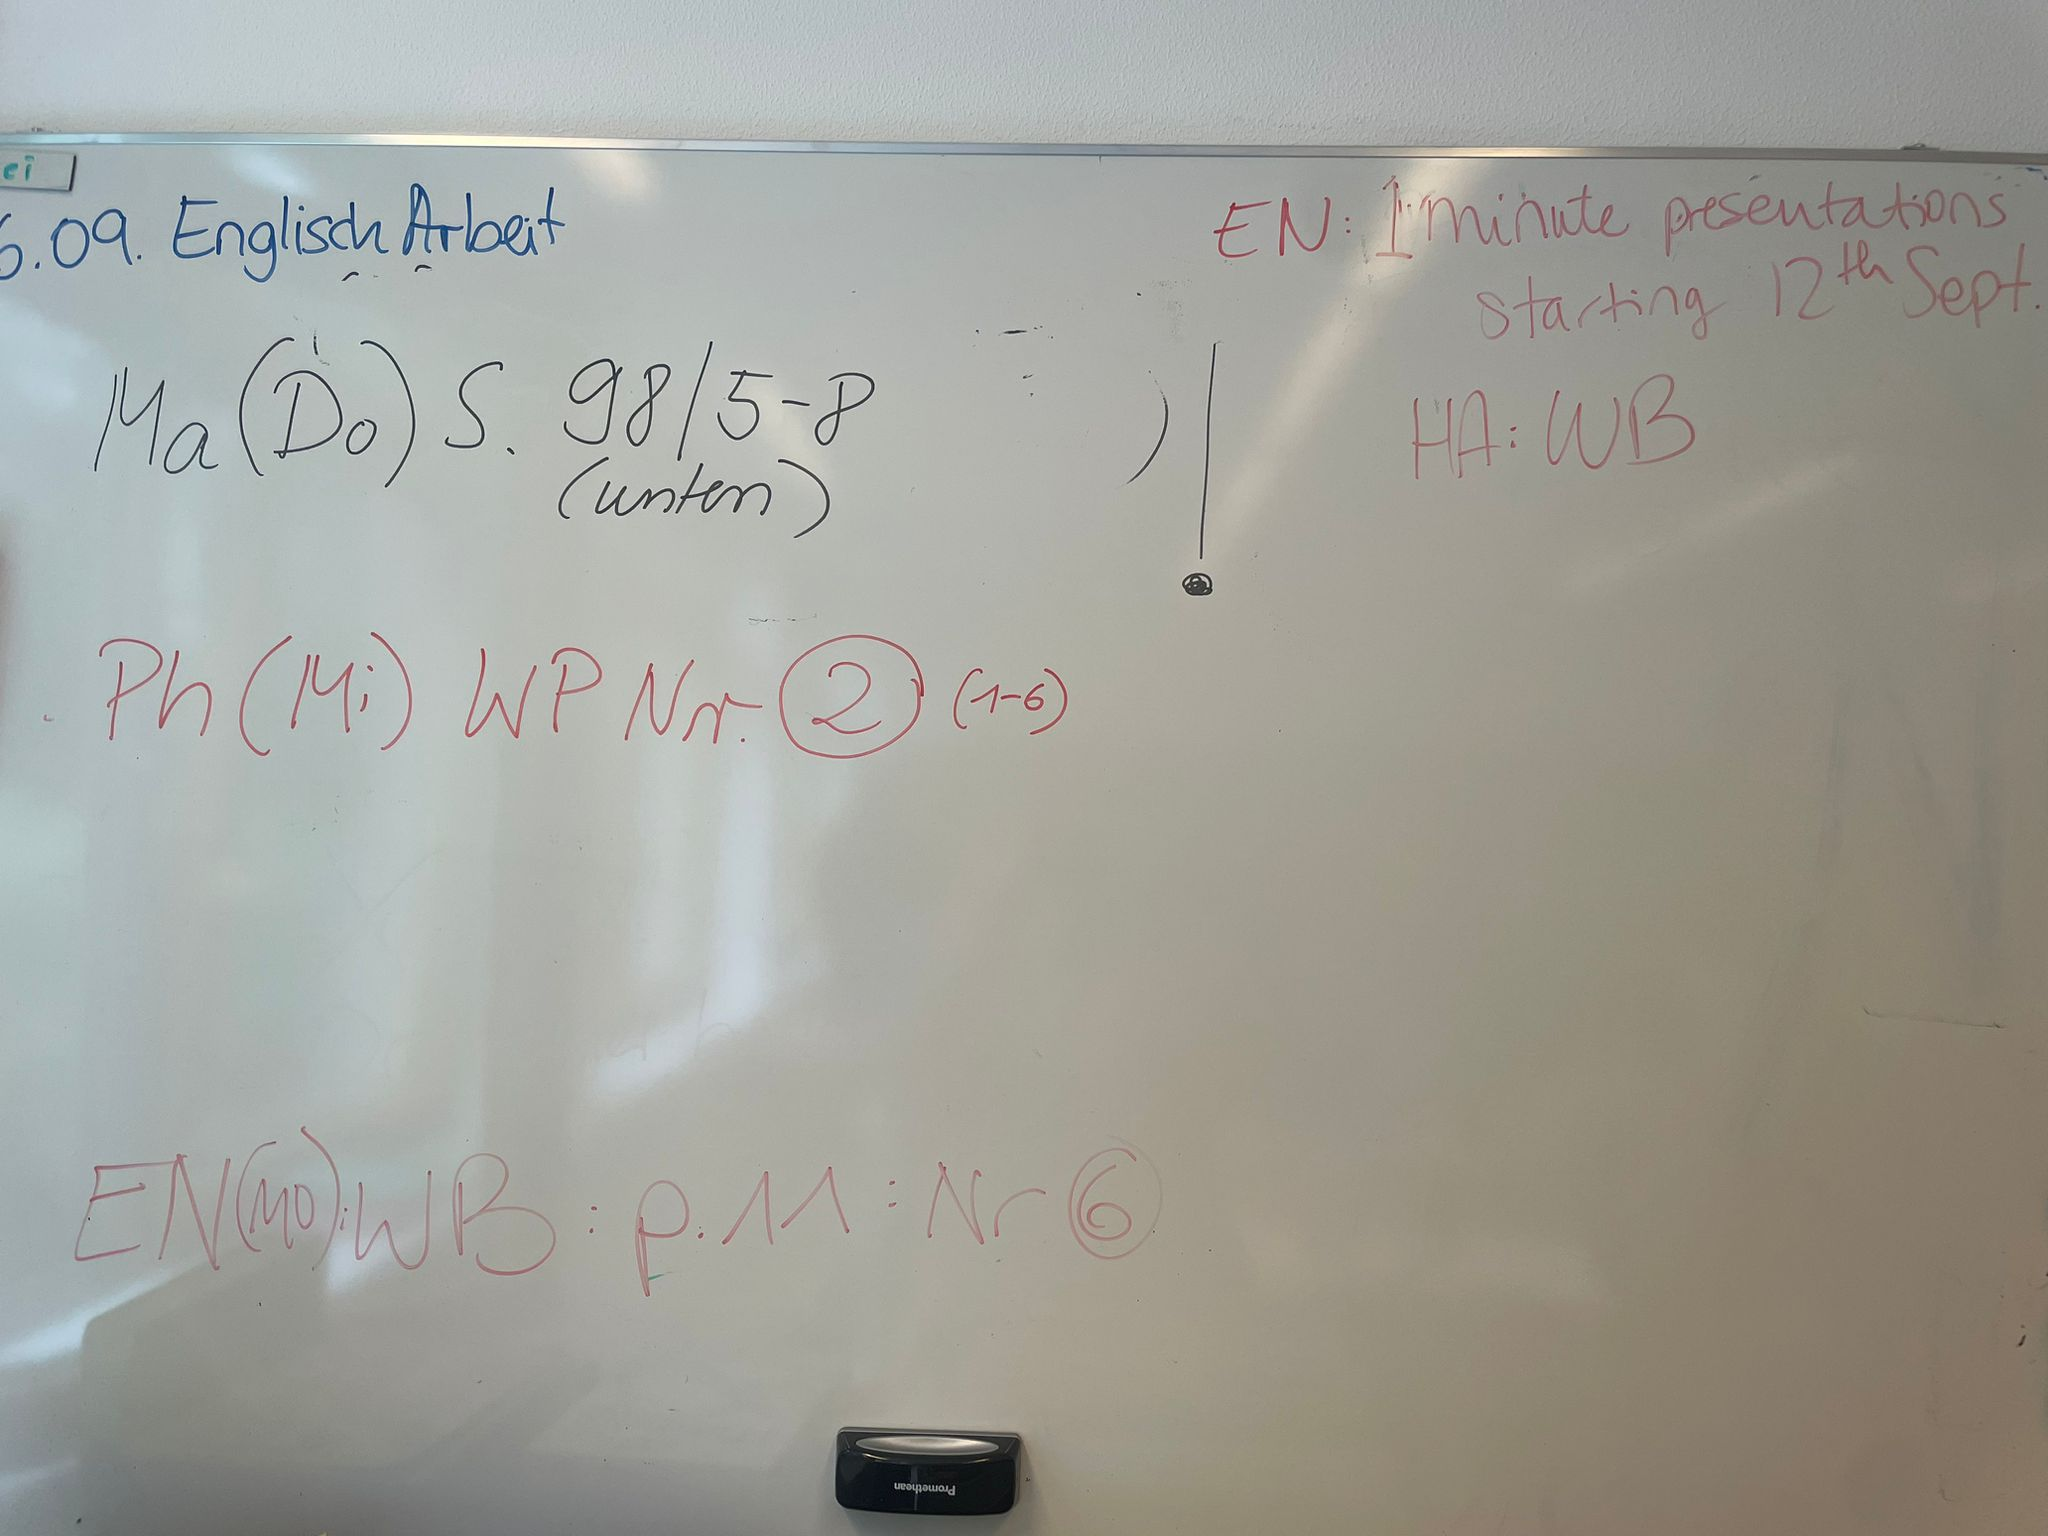
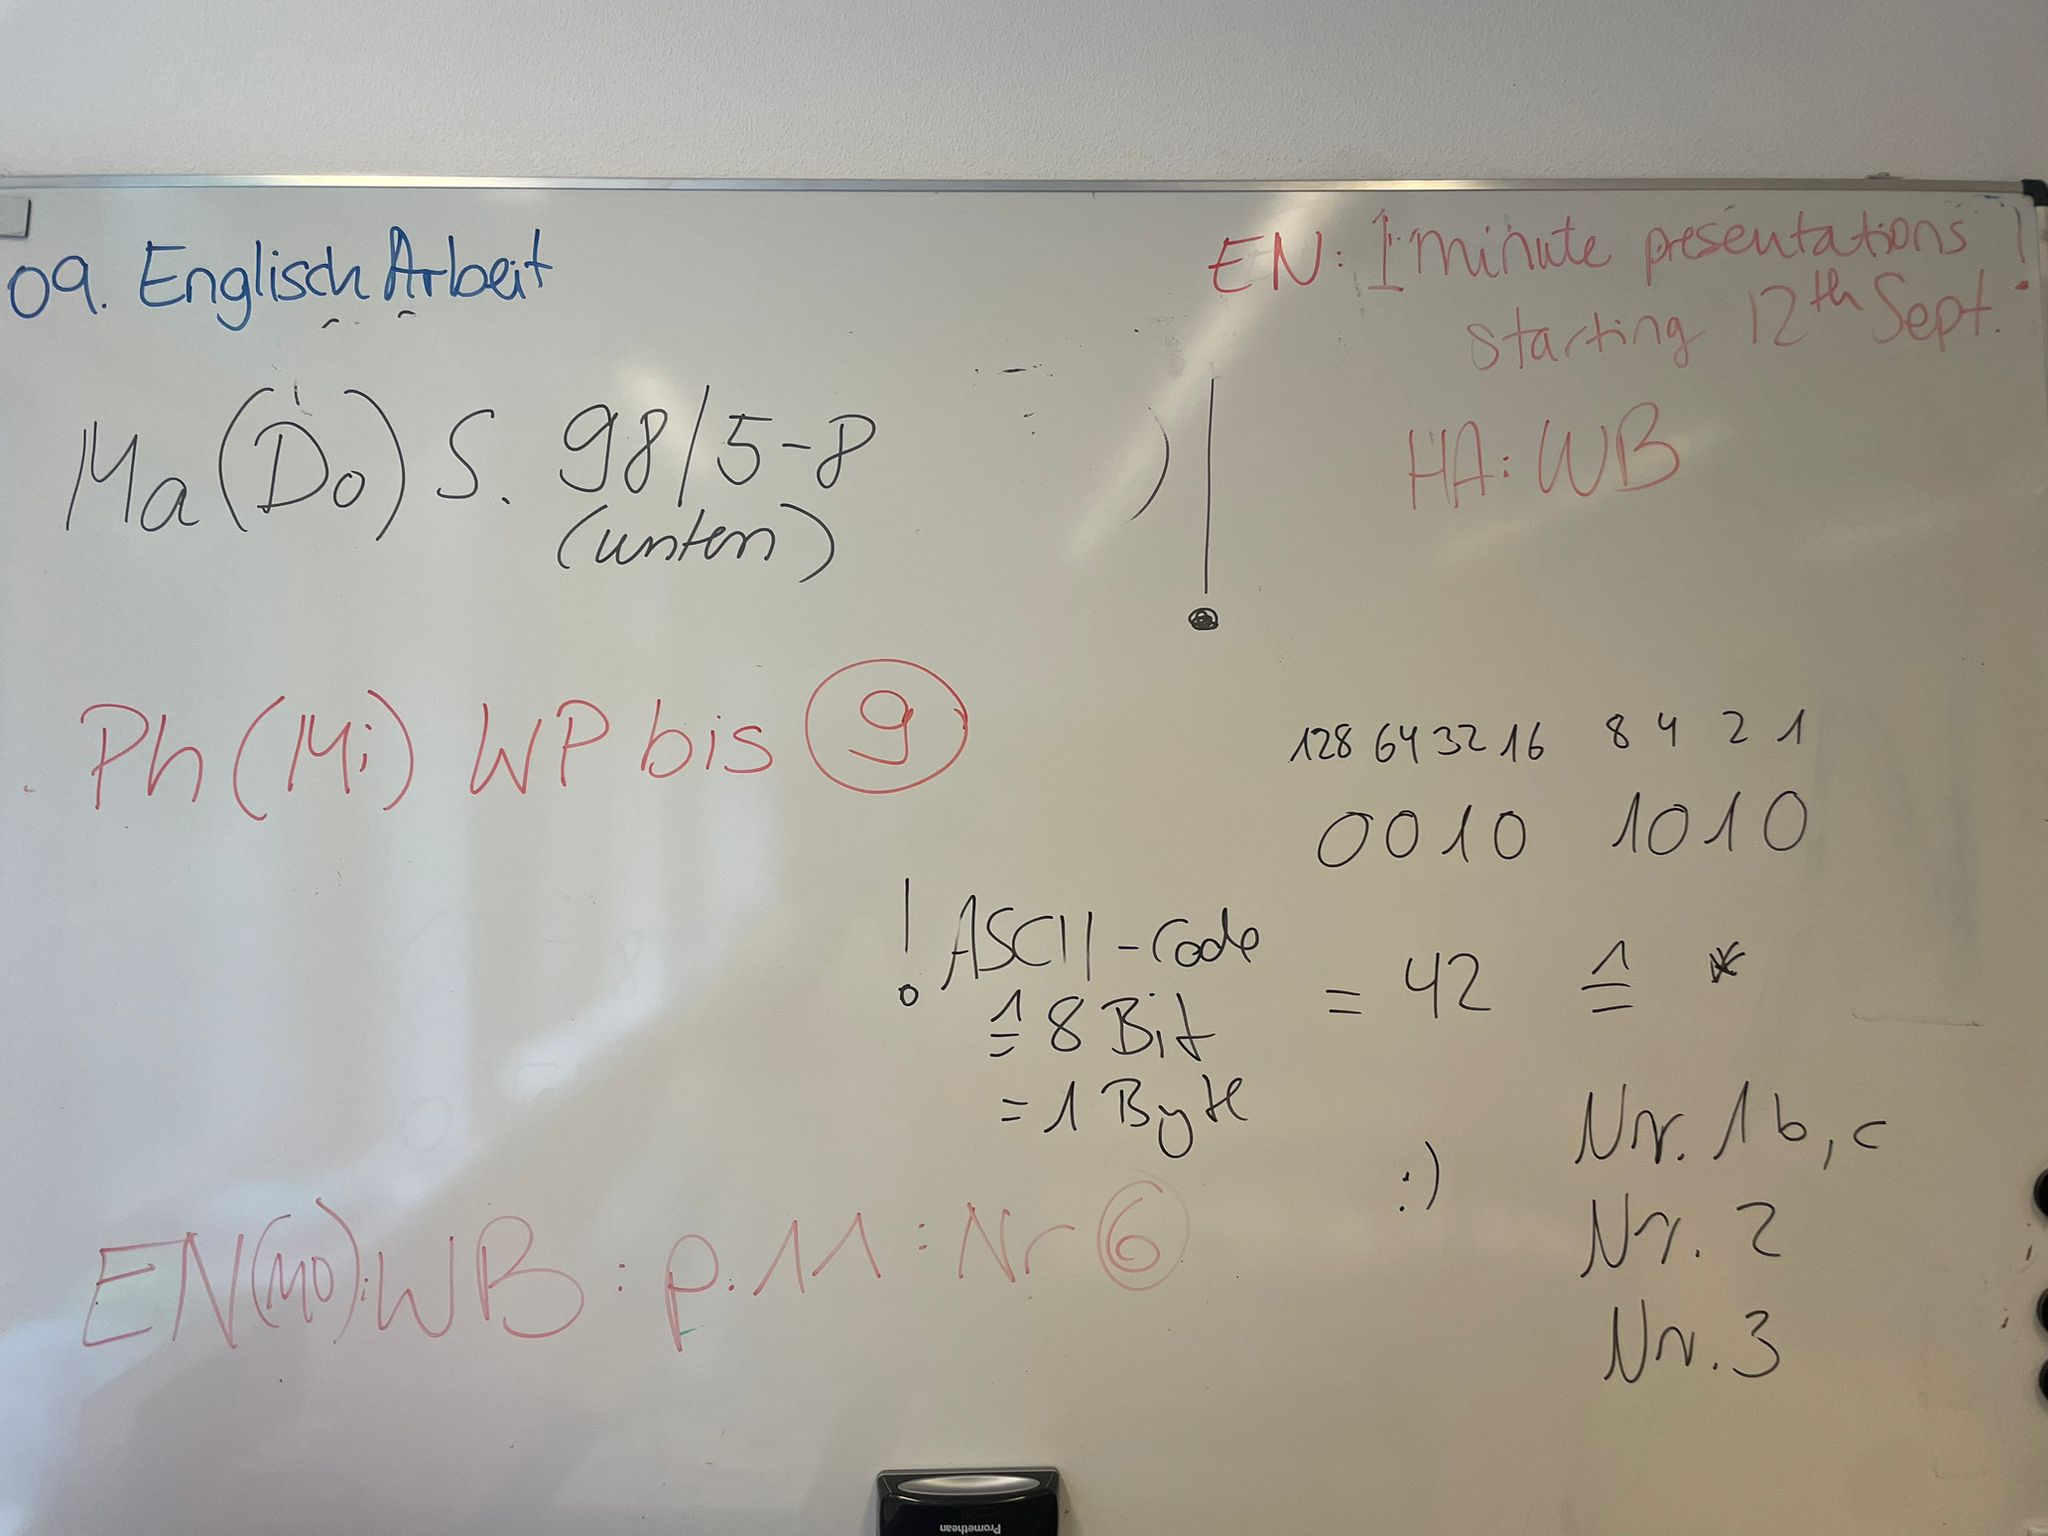
add exams, update day

diff --git a/index.html b/index.html
@@ -38,7 +38,7 @@ const {getTimetable}=service_require("web/school/school");
 	for(let index=0; index<4; index+=1){
 ?>
 		<tr>
-			<td><?=((index+1)*2)-1?> - <?=(index+1)*2?></td><?
+			<td class=hour><?=((index+1)*2)-1?> - <?=(index+1)*2?></td><?
 		for(let i=0; i<5; i+=1){
 ?>
 			<td class="weekday d<?=i?>" title="<?=((index+1)*2)-1?>-<?=(index+1)*2?> Stunde <?=timetable[i][index][1]?> mit <?=timetable[i][index][2].join(', ')?>" onclick="alert('<?=((index+1)*2)-1?>-<?=(index+1)*2?> Stunde <?=timetable[i][index][1]?> mit <?=timetable[i][index][2].join(', ')?>');"><?=timetable[i][index][0]?></td><?
@@ -49,15 +49,23 @@ const {getTimetable}=service_require("web/school/school");
 ?>
 	</table>
 
+	<h2>Klausuren/Arbeiten</h2>
+	<ul>
+		<li><b>Mathe (E-Kurs)</b> - <span>16.09.2024</span> <a href=/SquareNumber target=_blank>(hier üben)</a></li>
+		<li><b>Englisch (Beide Kurse)</b> - <span>26.09.2024</span> <a href=/Vocabulary target=_blank>(hier üben)</a></li>
+		<li><b>Deutsch</b> - <span>01.10.2024</span></li>
+		<li><b>Physik</b> - <span>02.10.2024</span></li>
+	</ul>
+
 	<h2>Hausaufgaben <a href=/web/school/data/HA-Tafel.jpg target=_blank>(Foto)</a></h2>
 	<ul>
-		<li><b>Mathe</b>: (Bis Donnerstag 12.09.2024)
+		<li><b>Mathe</b>: (Bis <span class=red>Donnerstag</span> 12.09.2024)
 			<ul>
 				<li><b>S.98</b> Nr. 5-8 (unten)</li>
 				<li><a href="/web/school/data/MatheTafelaufgaben.jpg" target=_blank>Tafelaufgaben</a> Beenden</li>
 			</ul>
 		</li>
-		<li><b>Englisch</b>: <a href="/web/school/data/EnglischMerke.jpg" target=_blank>Tafel-Merk-Foto</a> (Bis Donnerstag 12.09.2024)
+		<li><b>Englisch</b>: <a href="/web/school/data/EnglischMerke.jpg" target=_blank>Tafel-Merk-Foto</a> (Bis <span class=warn>Donnerstag</span> 12.09.2024)
 			<ul>
 				<li><b>Vokabeln S.177-178</b> Station 2 (und Alles davor)</li>
 				<li><b>Workbook S.11</b> Nr. 6</li>
@@ -65,13 +73,7 @@ const {getTimetable}=service_require("web/school/school");
 				<li>Latter of Protest fertig Schreiben</li>
 			</ul>
 		</li>
-		<li><b>Chemie</b>: (Bis Dienstag 10.09.2024)
-			<ul>
-				<li>Gefahrenzeichen (<a href=/web/school/data/gefahrensymbole_alt.png target=_blank>Foto</a>) auswendig Lernen (für Test)</li>
-				<li>Mappe fertig machen: Inhaltsverzeichnis und Deckblatt</li>
-			</ul>
-		</li>
-		<li><b>Physik</b>: <a href=/web/school/data/PhysikWP_20240906.JPG target=_blank>AB-Wochenplan</a> Nr. 2 (AB S.27 Nr. 1-6) (bis 11.09.2024)</li>
+		<li><b>Physik</b>: <a href=/web/school/data/PhysikWP_20240906.JPG target=_blank>Wochenplan</a> Nr. 1-9 (bis einschließlich Aufgabe 9) (bis Mittwoch 18.09.2024)</li>
 
 
 	</ul>

diff --git a/style.css b/style.css
@@ -4,3 +4,12 @@ table#timetable{
 table#timetable td.weekday{
 	cursor: pointer;
 }
+table#timetable td.weekday:hover{
+	color: blue;
+}
+table#timetable td.weekday:active{
+	color: red;
+}
+.warn{
+	color:red;
+}
